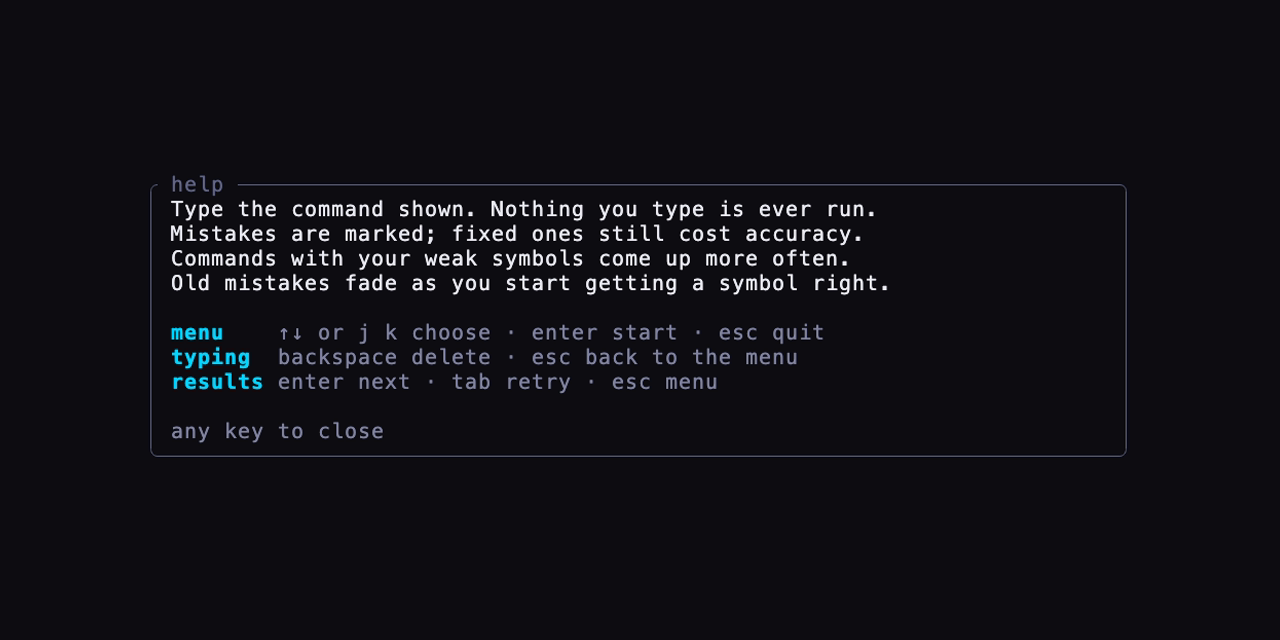
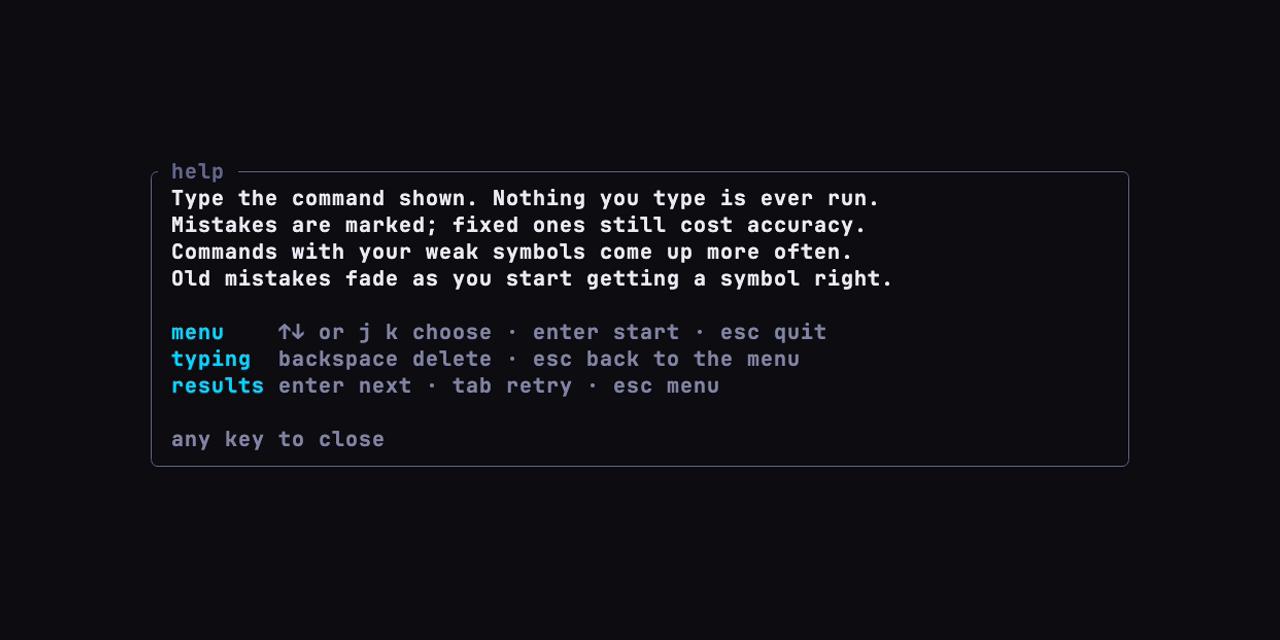
Record the README images in JetBrains Mono Bold

Changed region(s): [[0.125, 0.25, 0.6875, 0.4688], [0.125, 0.5, 0.6562, 0.625], [0.125, 0.6562, 0.3125, 0.7188]]

diff --git a/README.md b/README.md
@@ -144,6 +144,12 @@ vhs docs/typing.tape    # docs/typing.gif
 They use the demo stats in `docs/demo/stats.json` and set `TYPE_TRAINER_SEED`, which
 makes the app pick the same commands every time. Your own stats aren't touched.
 
+The tapes draw in JetBrains Mono Bold, like the web version. vhs can't pick a font
+weight, so while recording, install only
+[`JetBrainsMono-Bold.ttf`](https://github.com/JetBrains/JetBrainsMono/raw/master/fonts/ttf/JetBrainsMono-Bold.ttf)
+(no other JetBrains Mono faces): with just the Bold face available, all text is
+bold. Remove it again afterwards if you don't want it installed.
+
 The screens are covered by [insta](https://insta.rs) snapshot tests. After a layout
 change, review the new snapshots with `cargo insta review` (install it with
 `cargo install cargo-insta`). [`CLAUDE.md`](CLAUDE.md) describes the architecture
